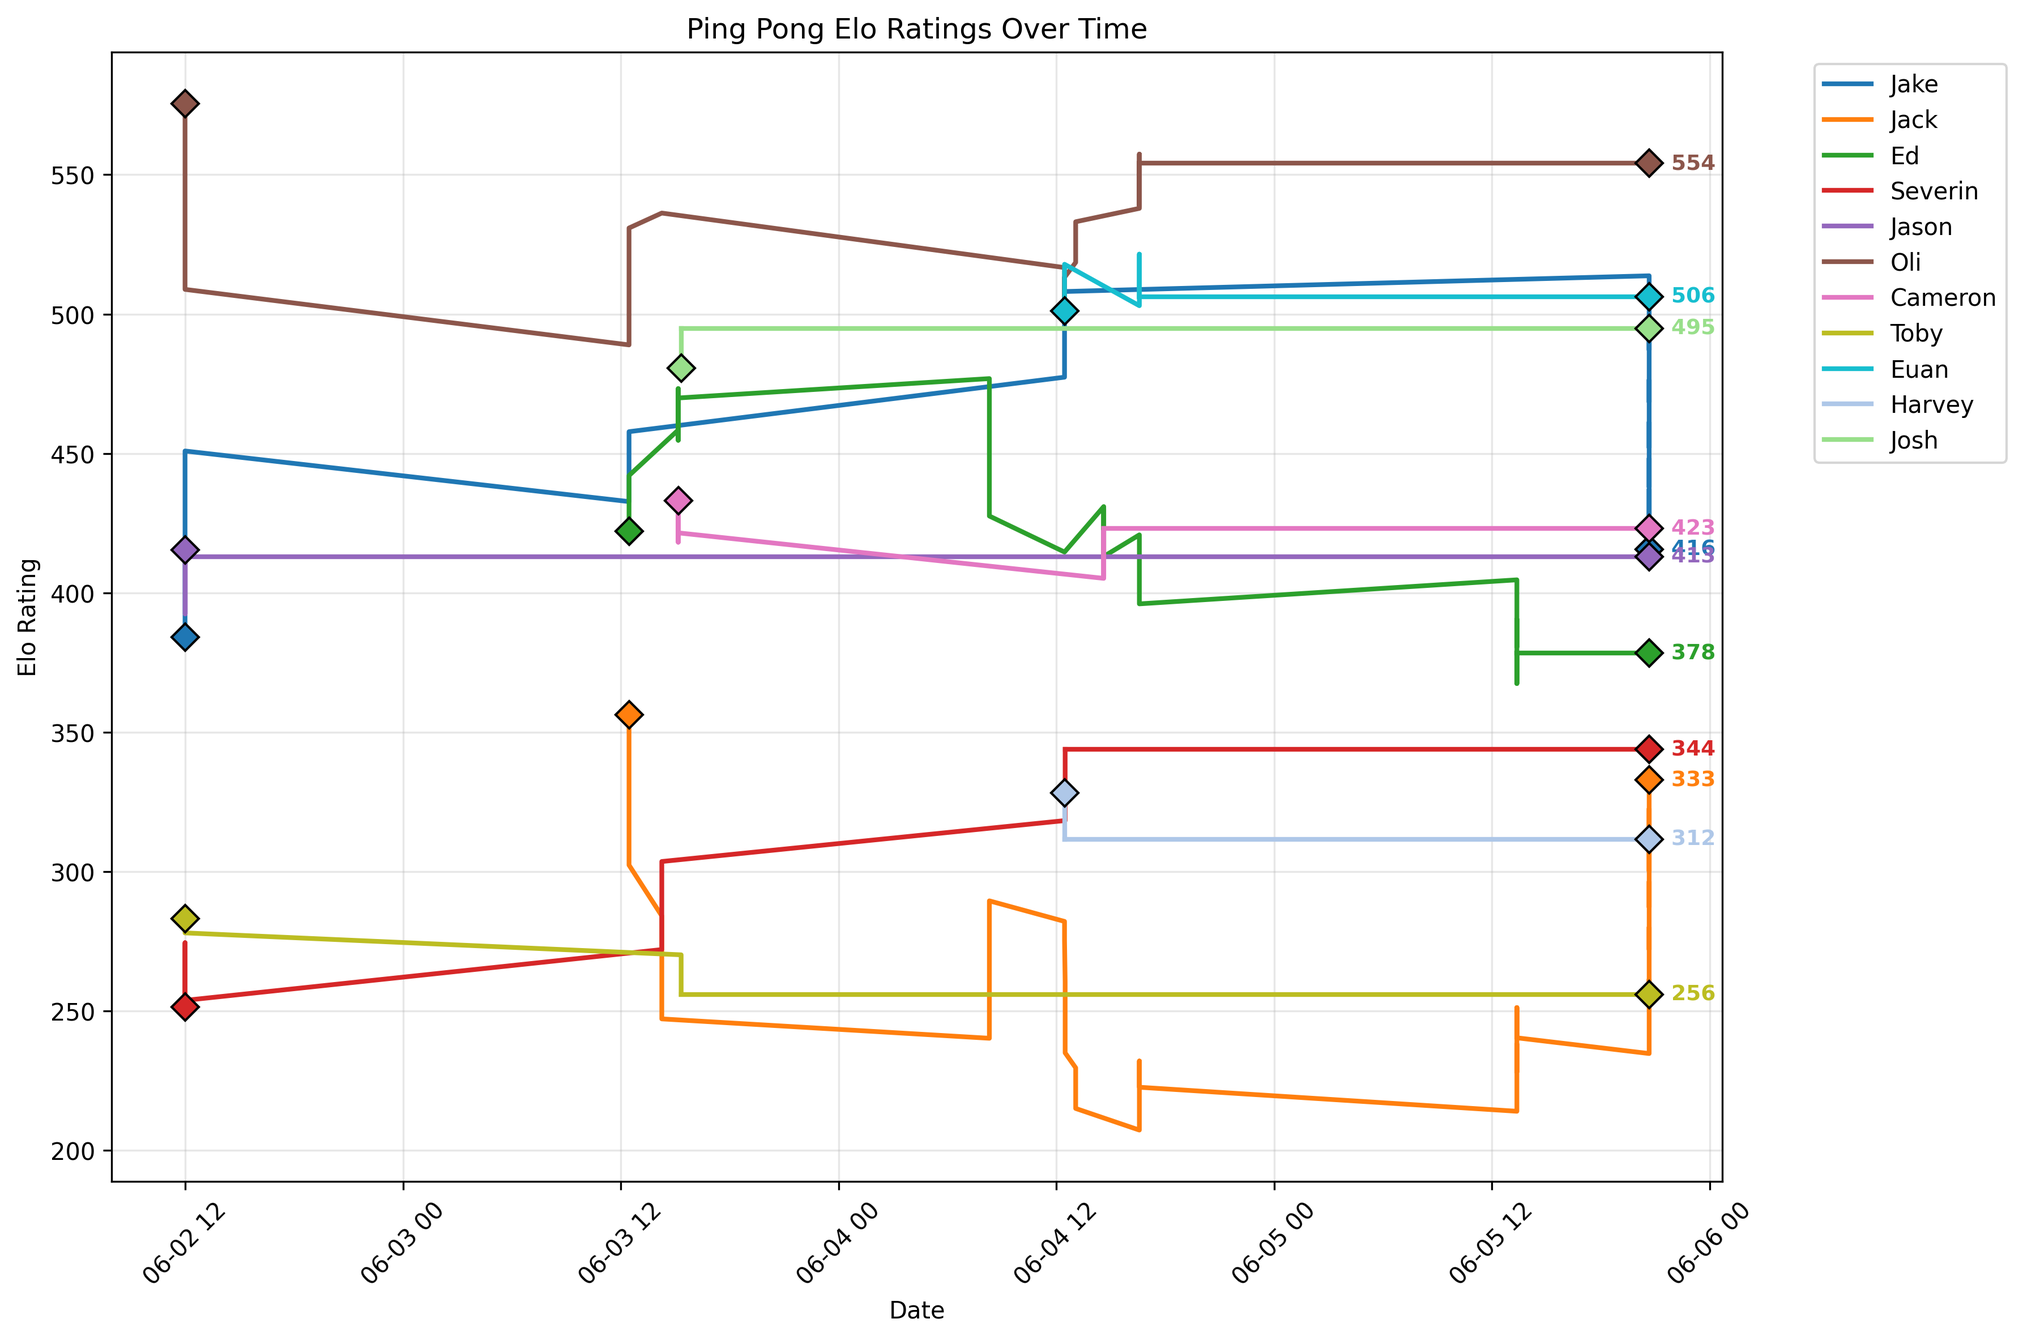
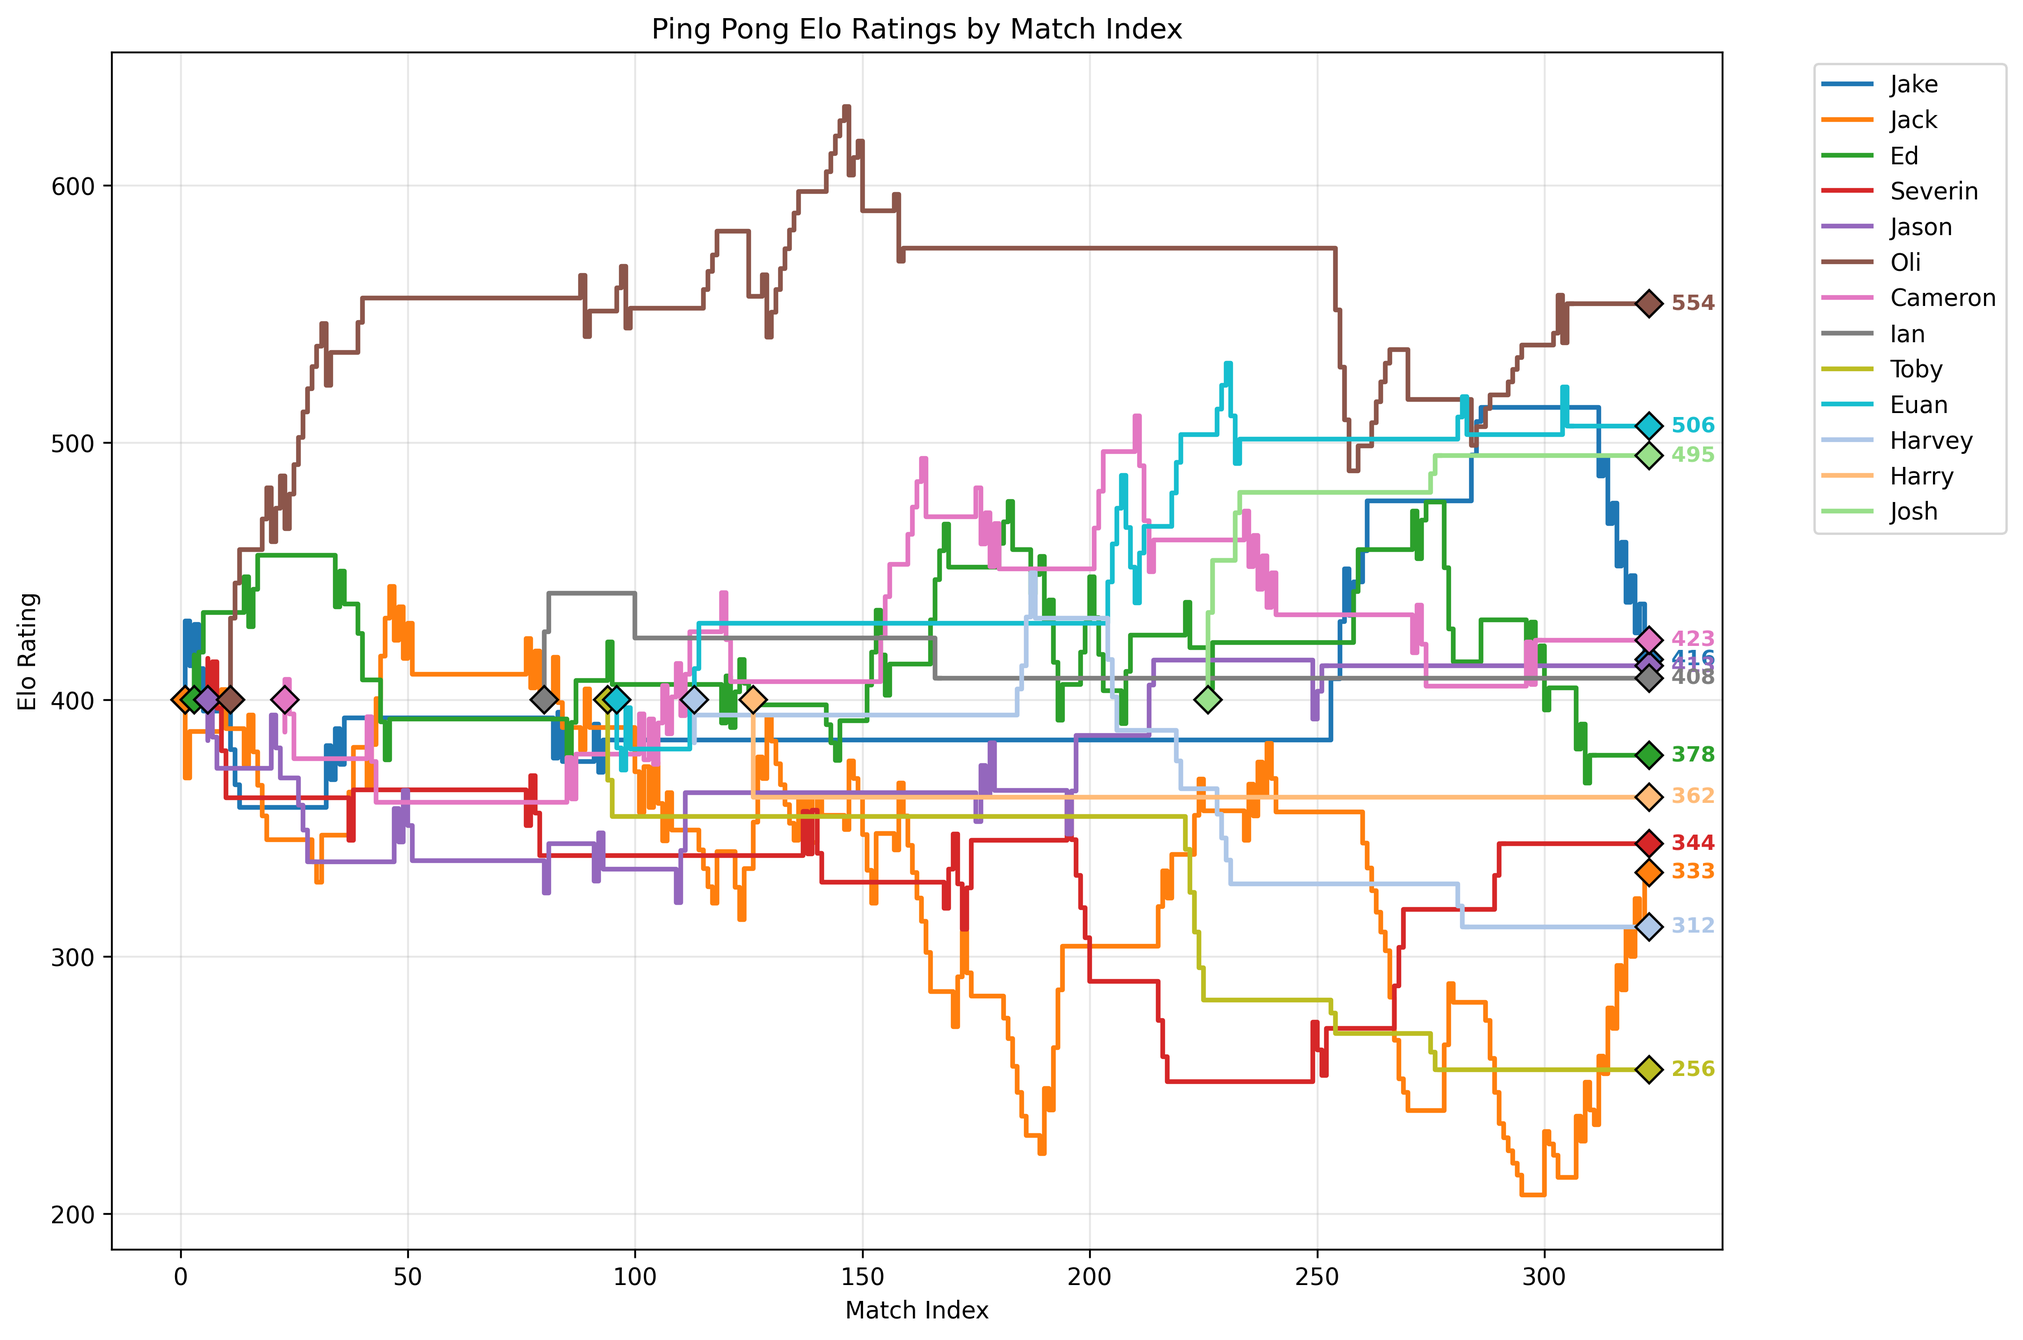
plot steps; plot by match index

diff --git a/data_analysis/pipeline.py b/data_analysis/pipeline.py
@@ -2,14 +2,16 @@
 Ping Pong League Analysis Pipeline
 A modular system for analyzing ping pong match results with Elo ratings.
 """
-import os
+
 from abc import ABC, abstractmethod
 from dataclasses import dataclass
 from typing import Dict, List, Optional, Tuple, Union
 import pandas as pd
+import numpy as np
 import matplotlib.pyplot as plt
 import sqlite3
 from datetime import datetime
+import warnings
 
 
 @dataclass
@@ -42,11 +44,12 @@ class StatCalculator(ABC):
 class EloCalculator(StatCalculator):
     """Calculates and tracks Elo ratings over time."""
 
-    def __init__(self, initial_rating: float = 500.0, k_factor: float = 32.0):
+    def __init__(self, initial_rating: float = 1200.0, k_factor: float = 32.0):
         self.initial_rating = initial_rating
         self.k_factor = k_factor
-        self.ratings_history: Dict[str, List[Tuple[Optional[datetime], float]]] = {}
+        self.ratings_history: Dict[str, List[Tuple[Optional[datetime], float, int]]] = {}
         self.current_ratings: Dict[str, float] = {}
+        self.match_indices: List[int] = []  # Track all match indices
 
     def get_name(self) -> str:
         return "Elo"
@@ -65,16 +68,17 @@ class EloCalculator(StatCalculator):
 
         return new_winner_rating, new_loser_rating
 
-    def _initialize_player(self, player: str, date: Optional[datetime] = None) -> None:
+    def _initialize_player(self, player: str, date: Optional[datetime] = None, match_index: int = 0) -> None:
         """Initialize a new player's rating."""
         if player not in self.current_ratings:
             self.current_ratings[player] = self.initial_rating
-            self.ratings_history[player] = [(date, self.initial_rating)]
+            self.ratings_history[player] = [(date, self.initial_rating, match_index)]
 
     def calculate(self, matches: List[MatchResult]) -> Dict[str, any]:
         """Calculate Elo ratings from match results."""
         self.current_ratings.clear()
         self.ratings_history.clear()
+        self.match_indices.clear()
 
         # Separate matches with and without dates
         dated_matches = [m for m in matches if m.date_played is not None]
@@ -83,8 +87,8 @@ class EloCalculator(StatCalculator):
         # Process undated matches first to establish initial ratings
         for match in undated_matches:
             if not match.doubles:  # Only process singles matches for now
-                self._initialize_player(match.p1)
-                self._initialize_player(match.p2)
+                self._initialize_player(match.p1, match_index=match.index)
+                self._initialize_player(match.p2, match_index=match.index)
 
                 winner_rating = self.current_ratings[match.winner]
                 loser = match.p1 if match.winner == match.p2 else match.p2
@@ -97,9 +101,10 @@ class EloCalculator(StatCalculator):
                 self.current_ratings[match.winner] = new_winner_rating
                 self.current_ratings[loser] = new_loser_rating
 
-                # Add to history without dates
-                self.ratings_history[match.winner].append((None, new_winner_rating))
-                self.ratings_history[loser].append((None, new_loser_rating))
+                # Add to history with match index
+                self.ratings_history[match.winner].append((None, new_winner_rating, match.index))
+                self.ratings_history[loser].append((None, new_loser_rating, match.index))
+                self.match_indices.append(match.index)
 
         # Sort dated matches by date
         dated_matches.sort(key=lambda x: x.date_played)
@@ -107,8 +112,8 @@ class EloCalculator(StatCalculator):
         # Process dated matches
         for match in dated_matches:
             if not match.doubles:  # Only process singles matches for now
-                self._initialize_player(match.p1, match.date_played)
-                self._initialize_player(match.p2, match.date_played)
+                self._initialize_player(match.p1, match.date_played, match.index)
+                self._initialize_player(match.p2, match.date_played, match.index)
 
                 winner_rating = self.current_ratings[match.winner]
                 loser = match.p1 if match.winner == match.p2 else match.p2
@@ -121,17 +126,23 @@ class EloCalculator(StatCalculator):
                 self.current_ratings[match.winner] = new_winner_rating
                 self.current_ratings[loser] = new_loser_rating
 
-                # Add to history with dates
-                self.ratings_history[match.winner].append((match.date_played, new_winner_rating))
-                self.ratings_history[loser].append((match.date_played, new_loser_rating))
+                # Add to history with dates and match index
+                self.ratings_history[match.winner].append((match.date_played, new_winner_rating, match.index))
+                self.ratings_history[loser].append((match.date_played, new_loser_rating, match.index))
+                self.match_indices.append(match.index)
 
         return {
             'current_ratings': self.current_ratings.copy(),
             'ratings_history': self.ratings_history.copy()
         }
 
-    def plot_ratings_over_time(self, save_path: Optional[str] = None) -> None:
-        """Plot Elo ratings over time for all players."""
+    def plot_ratings_over_time(self, save_path: Optional[str] = None, use_index: bool = True) -> None:
+        """Plot Elo ratings over time for all players.
+
+        Args:
+            save_path: Optional path to save the plot
+            use_index: If True, plot by match index instead of dates
+        """
         plt.figure(figsize=(12, 8))
 
         # Define a varied color palette
@@ -143,54 +154,99 @@ class EloCalculator(StatCalculator):
             '#393b79', '#637939', '#8c6d31', '#843c39', '#7b4173'
         ]
 
-        # Get the latest date across all players for horizontal line extension
-        all_dates = []
-        for history in self.ratings_history.values():
-            dates = [entry[0] for entry in history if entry[0] is not None]
-            all_dates.extend(dates)
+        if use_index:
+            # Plot by match index
+            if not self.match_indices:
+                print("No match data found to plot.")
+                return
 
-        if not all_dates:
-            print("No dated matches found to plot.")
-            return
+            max_index = max(self.match_indices)
 
-        max_date = max(all_dates)
+            for i, (player, history) in enumerate(self.ratings_history.items()):
+                indices = [entry[2] for entry in history]  # Use actual match indices
+                ratings = [entry[1] for entry in history]
 
-        for i, (player, history) in enumerate(self.ratings_history.items()):
-            dates = [entry[0] for entry in history if entry[0] is not None]
-            ratings = [entry[1] for entry in history if entry[0] is not None]
+                if indices:
+                    # Use color from palette, cycling if more players than colors
+                    color = colors[i % len(colors)]
 
-            if dates:  # Only plot if there are dated matches
-                # Use color from palette, cycling if more players than colors
-                color = colors[i % len(colors)]
+                    # Plot the main line
+                    plt.step(indices, ratings, label=player, linewidth=2, color=color)
 
-                # Plot the main line
-                plt.plot(dates, ratings, label=player, linewidth=2, color=color)
+                    # Add diamond marker for first game
+                    plt.plot(indices[0], ratings[0], marker='D', markersize=8, color=color,
+                            markeredgecolor='black', markeredgewidth=1, zorder=5)
 
-                # Add diamond marker for first game
-                plt.plot(dates[0], ratings[0], marker='D', markersize=8, color=color,
-                         markeredgecolor='black', markeredgewidth=1, zorder=5)
+                    # Add horizontal line from last game to end of chart
+                    last_index = indices[-1]
+                    last_rating = ratings[-1]
 
-                # Add horizontal line from last game to end of chart
-                last_date = dates[-1]
-                last_rating = ratings[-1]
+                    if last_index < max_index:
+                        plt.plot([last_index, max_index], [last_rating, last_rating],
+                                color=color, linestyle='-', linewidth=2)
 
-                if last_date < max_date:
-                    plt.plot([last_date, max_date], [last_rating, last_rating],
-                             color=color, linestyle='-', linewidth=2)
+                    # Add diamond marker at max index with current Elo label
+                    plt.plot(max_index, last_rating, marker='D', markersize=8, color=color,
+                            markeredgecolor='black', markeredgewidth=1, zorder=5)
+                    plt.text(max_index, last_rating, f'   {last_rating:.0f}',
+                            verticalalignment='center', fontsize=9, color=color,
+                            weight='bold', zorder=6)
 
-                # Add diamond marker at max date with current Elo label
-                plt.plot(max_date, last_rating, marker='D', markersize=8, color=color,
-                         markeredgecolor='black', markeredgewidth=1, zorder=5)
-                plt.text(max_date, last_rating, f'   {last_rating:.0f}',
-                         verticalalignment='center', fontsize=9, color=color,
-                         weight='bold', zorder=6)
+            plt.xlabel('Match Index')
+            plt.ylabel('Elo Rating')
+            plt.title('Ping Pong Elo Ratings by Match Index')
 
-        plt.xlabel('Date')
-        plt.ylabel('Elo Rating')
-        plt.title('Ping Pong Elo Ratings Over Time')
+        else:
+            # Original date-based plotting
+            # Get the latest date across all players for horizontal line extension
+            all_dates = []
+            for history in self.ratings_history.values():
+                dates = [entry[0] for entry in history if entry[0] is not None]
+                all_dates.extend(dates)
+
+            if not all_dates:
+                print("No dated matches found to plot.")
+                return
+
+            max_date = max(all_dates)
+
+            for i, (player, history) in enumerate(self.ratings_history.items()):
+                dates = [entry[0] for entry in history if entry[0] is not None]
+                ratings = [entry[1] for entry in history if entry[0] is not None]
+
+                if dates:  # Only plot if there are dated matches
+                    # Use color from palette, cycling if more players than colors
+                    color = colors[i % len(colors)]
+
+                    # Plot the main line
+                    plt.plot(dates, ratings, marker='o', label=player, linewidth=2, color=color)
+
+                    # Add diamond marker for first game
+                    plt.plot(dates[0], ratings[0], marker='D', markersize=8, color=color,
+                            markeredgecolor='black', markeredgewidth=1, zorder=5)
+
+                    # Add horizontal line from last game to end of chart
+                    last_date = dates[-1]
+                    last_rating = ratings[-1]
+
+                    if last_date < max_date:
+                        plt.plot([last_date, max_date], [last_rating, last_rating],
+                                color=color, linestyle='-', linewidth=2)
+
+                    # Add diamond marker at max date with current Elo label
+                    plt.plot(max_date, last_rating, marker='D', markersize=8, color=color,
+                            markeredgecolor='black', markeredgewidth=1, zorder=5)
+                    plt.text(max_date, last_rating, f'   {last_rating:.0f}',
+                            verticalalignment='center', fontsize=9, color=color,
+                            weight='bold', zorder=6)
+
+            plt.xlabel('Date')
+            plt.ylabel('Elo Rating')
+            plt.title('Ping Pong Elo Ratings Over Time')
+            plt.xticks(rotation=45)
+
         plt.legend(bbox_to_anchor=(1.05, 1), loc='upper left')
         plt.grid(True, alpha=0.3)
-        plt.xticks(rotation=45)
         plt.tight_layout()
 
         if save_path:
@@ -204,10 +260,10 @@ class DataLoader:
 
     @staticmethod
     def load_from_database(
-            db_path: str,
-            table_name: str = "games",
-            season_filter: Optional[int] = None,
-            include_archived: bool = True
+        db_path: str,
+        table_name: str = "games",
+        season_filter: Optional[int] = None,
+        include_archived: bool = True
     ) -> List[MatchResult]:
         """Load match results from SQLite database."""
         query = f"SELECT * FROM {table_name}"
@@ -228,20 +284,45 @@ class DataLoader:
             with sqlite3.connect(db_path) as conn:
                 df = pd.read_sql_query(query, conn)
 
-            # Convert date column, handling null values
+            # Convert date column from unix timestamp, handling null values
             df['date_played'] = pd.to_datetime(df['date_played'], unit='s', errors='coerce')
+
+            # Debug: Print column names if there's an issue
+            print(f"Available columns: {list(df.columns)}")
+
+            # Map common column name variations
+            column_mapping = {
+                'index': ['Index', 'index', 'id', 'ID', 'match_id'],
+                'date_played': ['date_played', 'date', 'match_date'],
+                'p1': ['p1', 'player1', 'player_1'],
+                'p2': ['p2', 'player2', 'player_2'],
+                'doubles': ['doubles', 'is_doubles', 'double'],
+                'winner': ['winner', 'winning_player'],
+                'archived': ['archived', 'is_archived'],
+                'season': ['season', 'season_id']
+            }
+
+            # Find actual column names
+            actual_columns = {}
+            for field, possible_names in column_mapping.items():
+                for name in possible_names:
+                    if name in df.columns:
+                        actual_columns[field] = name
+                        break
+                if field not in actual_columns:
+                    raise ValueError(f"Could not find column for '{field}'. Available columns: {list(df.columns)}")
 
             matches = []
             for _, row in df.iterrows():
                 match = MatchResult(
-                    index=int(row['id']),
+                    index=int(row[actual_columns['index']]),
                     date_played=row['date_played'] if pd.notna(row['date_played']) else None,
-                    p1=str(row['p1']),
-                    p2=str(row['p2']),
-                    doubles=bool(row['doubles']),
-                    winner=str(row['winner']),
-                    archived=bool(row['archived']),
-                    season=int(row['season'])
+                    p1=str(row[actual_columns['p1']]),
+                    p2=str(row[actual_columns['p2']]),
+                    doubles=bool(row[actual_columns['doubles']]),
+                    winner=str(row[actual_columns['winner']]),
+                    archived=bool(row[actual_columns['archived']]),
+                    season=int(row[actual_columns['season']])
                 )
                 matches.append(match)
 
@@ -355,13 +436,13 @@ class PingPongAnalyzer:
         self.calculators.append(calculator)
 
     def load_data(
-            self,
-            source: Union[str, pd.DataFrame],
-            source_type: str = "database",
-            table_name: str = "games",
-            season_filter: Optional[int] = None,
-            include_archived: bool = True,
-            **kwargs
+        self,
+        source: Union[str, pd.DataFrame],
+        source_type: str = "database",
+        table_name: str = "games",
+        season_filter: Optional[int] = None,
+        include_archived: bool = True,
+        **kwargs
     ) -> None:
         """Load match data from database, file, or DataFrame."""
         if source_type == "database" and isinstance(source, str):
@@ -387,9 +468,9 @@ class PingPongAnalyzer:
         try:
             info = self.get_database_info(db_path, table_name)
 
-            print("\n" + "=" * 60)
+            print("\n" + "="*60)
             print("DATABASE INFORMATION")
-            print("=" * 60)
+            print("="*60)
 
             # Schema
             print(f"\nTable: {table_name}")
@@ -413,7 +494,7 @@ class PingPongAnalyzer:
             print(f"\nSeason Breakdown:")
             print("-" * 30)
             for season in info['season_breakdown']:
-                print(f"Season {season['season']:2d}: {season['matches']:3d} matches "
+                print(f"Season {season['season']:2d}: {season['games']:3d} matches "
                       f"({season['dated_matches']:3d} with dates)")
 
         except Exception as e:
@@ -443,9 +524,9 @@ class PingPongAnalyzer:
             print("No analysis results available. Run run_analysis() first.")
             return
 
-        print("\n" + "=" * 50)
+        print("\n" + "="*50)
         print("PING PONG LEAGUE ANALYSIS SUMMARY")
-        print("=" * 50)
+        print("="*50)
 
         print(f"Total matches processed: {len(self.matches)}")
         dated_matches = sum(1 for m in self.matches if m.date_played is not None)
@@ -470,12 +551,11 @@ def main():
     analyzer = PingPongAnalyzer()
 
     # Add Elo calculator
-    elo_calc = EloCalculator(initial_rating=400.0, k_factor=32.0)
+    elo_calc = EloCalculator(initial_rating=400, k_factor=32.0)
     analyzer.add_calculator(elo_calc)
 
     # Example usage with your database
     db_path = "../backend/game_database.db"
-    assert os.path.exists(db_path)
 
     try:
         # Print database information
